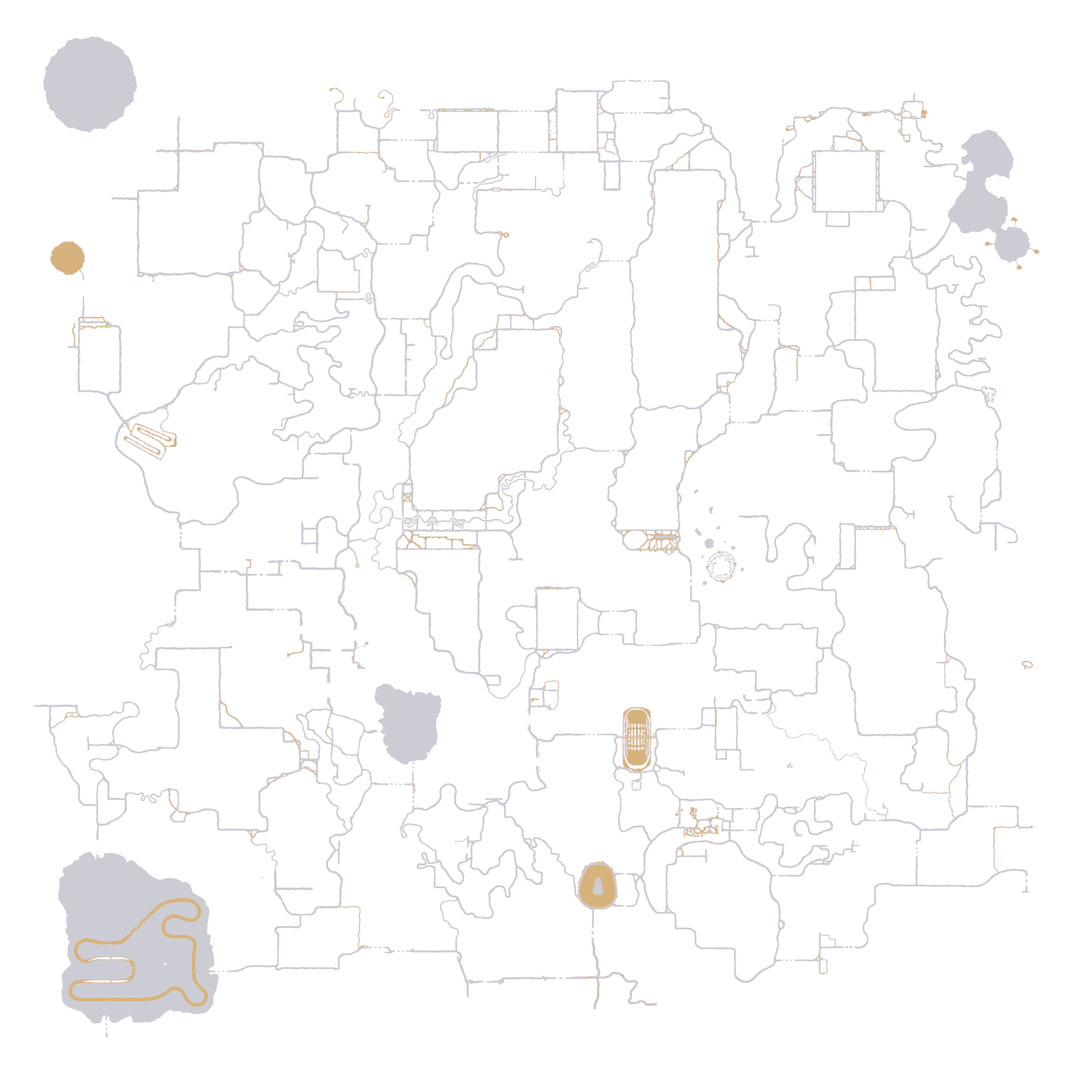
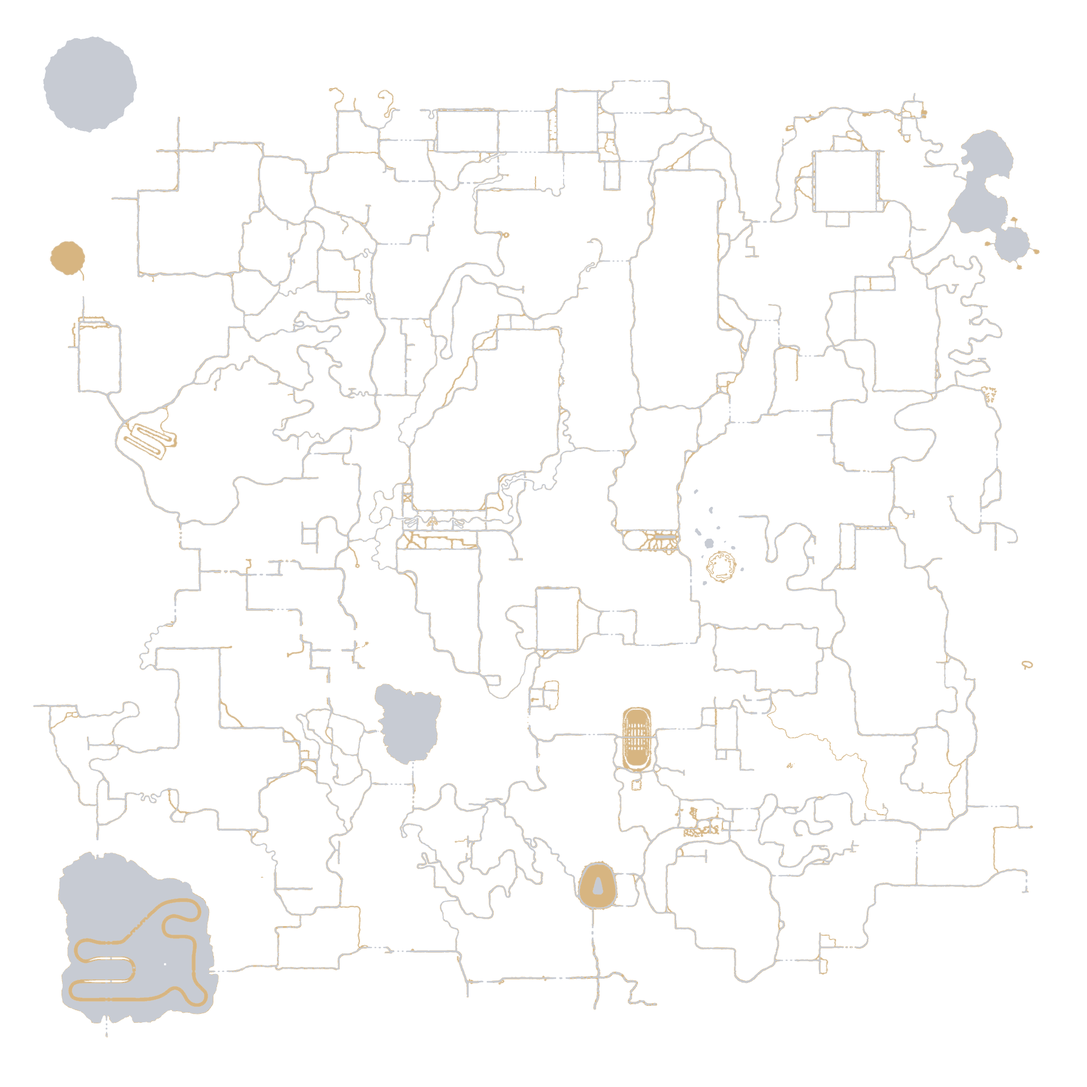
Fix the missing document head, the road colour bleed and the pan cost
Four real defects, no new features.

The page had no doctype, charset or viewport. That put it in quirks
mode, and the raw UTF-8 in the template rendered as mojibake: every em
dash in the roster headings came out as three stray Latin-1 characters.
It also meant the 900 px mobile breakpoint never engaged on a phone,
since without a viewport meta the page lays out at 980 px and scales
down. Now standards mode, UTF-8 and width=device-width.

The roads overlay dilated the composed RGBA, so MaxFilter took the
maximum of each channel independently: wherever an asphalt edge met a
gravel edge it produced (214, 201, 210), a lilac that is neither road
colour. Each class is grown on its own now, before a colour is chosen,
and the only colours left in the output are the two road colours and
the genuine blends the downscale makes.

Panning rewrote --inv every frame. It cascades to every pin, footprint
and spawn marker, so each pan frame restyled ~130 elements to the value
they already had. Only written when the zoom actually changes.

Imported maps are WebP rather than JPEG, and are never scaled up. At
matched fidelity WebP is strictly better here - measured against the
source, q82 beats the old JPEG q88 on PSNR while being smaller - and
the 2000 px exports were being enlarged to 2048, which invented no
detail and cost bytes. The base layers drop from 10.34 MB to 7.82 MB,
24% less to serve, and registration improves to 0 px on all seven now
that nothing is resampled up.
[…]

diff --git a/docs/ADDED_POIS_map.html b/docs/ADDED_POIS_map.html
@@ -1,3 +1,7 @@
+<!doctype html>
+<html lang="en">
+<meta charset="utf-8">
+<meta name="viewport" content="width=device-width,initial-scale=1">
 <title>Astoria 8K &#8212; Added POIs</title>
 <style>
 :root{
@@ -186,7 +190,7 @@ body{margin:0;background:var(--ground);color:var(--ink);font-family:var(--body);
 const POIS=[{"name":"7Days_Swinger_Pad_by_MPLogue","mod":"AAA","x":-1759,"y":57,"z":-3192,"w":42,"d":42,"n":1,"where":"town","occ":"remnant_house_09","relief":0.0},{"name":"Ayesoar_Mansion_by_MPLogue","mod":"AAA","x":1160,"y":36,"z":-3184,"w":60,"d":60,"n":2,"where":"wild","occ":"","relief":0.75},{"name":"Baslica_Cistern_by_MPLogue","mod":"AAA","x":3372,"y":30,"z":2368,"w":60,"d":60,"n":3,"where":"wild","occ":"","relief":0.05},{"name":"BoulderHouse01_by_MPLogue","mod":"AAA","x":-1088,"y":30,"z":-1252,"w":60,"d":60,"n":4,"where":"wild","occ":"","relief":1.32},{"name":"Cat_Statue_by_MPLogue","mod":"AAA","x":-1436,"y":57,"z":-420,"w":13,"d":22,"n":5,"where":"wild","occ":"","relief":1.06},{"name":"CrystalCave01_by_MPLogue","mod":"AAA","x":-236,"y":150,"z":-236,"w":42,"d":42,"n":6,"where":"wild","occ":"","relief":0.0},{"name":"DiaLogueTowers_by_MPLogue","mod":"AAA","x":2849,"y":36,"z":-2962,"w":60,"d":60,"n":7,"where":"town","occ":"remnant_school_01","relief":0.0},{"name":"Dirigible_by_MPLogue","mod":"AAA","x":3348,"y":37,"z":-2544,"w":60,"d":59,"n":8,"where":"wild","occ":"","relief":3.42},{"name":"FacePalmInc_by_MPLogue","mod":"AAA","x":-945,"y":149,"z":637,"w":42,"d":42,"n":9,"where":"town","occ":"remnant_downtown_strip_07","relief":0.0},{"name":"Flying_Wallendas__by_MPLogue","mod":"AAA","x":-948,"y":150,"z":-648,"w":142,"d":141,"n":10,"where":"wild","occ":"","relief":6.44},{"name":"MaunSell_Fort_by_MPLogue","mod":"AAA","x":-1112,"y":150,"z":480,"w":153,"d":148,"n":11,"where":"wild","occ":"","relief":2.67},{"name":"MazeSm_by_MPLogue","mod":"AAA","x":-2404,"y":150,"z":-1388,"w":107,"d":100,"n":12,"where":"wild","occ":"","relief":2.41},{"name":"MidCenturyModernHouse01_by_MPLogue","mod":"AAA","x":1324,"y":57,"z":-1496,"w":42,"d":42,"n":13,"where":"town","occ":"remnant_house_11","relief":0.0},{"name":"MidCenturyModernHouse02_by_MPLogue","mod":"AAA","x":-117,"y":149,"z":1560,"w":42,"d":42,"n":14,"where":"town","occ":"remnant_burnt_02","relief":0.0},{"name":"MidCenturyModernHouse04_by_MPLogue","mod":"AAA","x":-1052,"y":30,"z":-1552,"w":60,"d":60,"n":15,"where":"wild","occ":"","relief":1.47},{"name":"MikeAirB+B01_by_MPLogue","mod":"AAA","x":-3360,"y":36,"z":-3540,"w":60,"d":60,"n":16,"where":"wild","occ":"","relief":1.24},{"name":"Obelisk_2001_by_MPLogue","mod":"AAA","x":-580,"y":150,"z":-1888,"w":67,"d":50,"n":17,"where":"wild","occ":"","relief":1.83},{"name":"Petra_Indiana_Jones_by_MPLogue","mod":"AAA","x":-3448,"y":36,"z":-880,"w":213,"d":179,"n":18,"where":"wild","occ":"","relief":3.89},{"name":"Pubic_Libary_by_MPLogue","mod":"AAA","x":-2662,"y":36,"z":2249,"w":60,"d":60,"n":19,"where":"town","occ":"remnant_library_01","relief":0.0},{"name":"RadCave01_by_MPLogue","mod":"AAA","x":2284,"y":52,"z":-596,"w":42,"d":42,"n":20,"where":"wild","occ":"","relief":1.34},{"name":"Rainbow_Pit_by_MPLogue","mod":"AAA","x":-1490,"y":57,"z":1906,"w":42,"d":42,"n":21,"where":"town","occ":"lot_country_01","relief":0.01},{"name":"RaveCave02_by_MPLogue","mod":"AAA","x":-1528,"y":57,"z":2064,"w":60,"d":60,"n":22,"where":"wild","occ":"","relief":1.3},{"name":"Rose_Abby_byMPLogue","mod":"AAA","x":-3532,"y":36,"z":-2604,"w":130,"d":158,"n":23,"where":"wild","occ":"","relief":6.67},{"name":"Rubble_wall_01_by_MPLogue","mod":"AAA","x":-3392,"y":36,"z":-3240,"w":58,"d":42,"n":24,"where":"wild","occ":"","relief":0.45},{"name":"Skeletor_Hermitage_by_MPLogue","mod":"AAA","x":128,"y":78,"z":-2900,"w":48,"d":75,"n":25,"where":"wild","occ":"","relief":1.59},{"name":"Skywalker_Homestead_by_MPLogue","mod":"AAA","x":-2220,"y":150,"z":-2236,"w":80,"d":73,"n":26,"where":"wild","occ":"","relief":2.5},{"name":"SnekCave_by_MPLogue","mod":"AAA","x":2588,"y":37,"z":-2588,"w":62,"d":50,"n":27,"where":"wild","occ":"","relief":3.0},{"name":"Step_Well_by_MPLogue","mod":"AAA","x":-2816,"y":150,"z":-2000,"w":60,"d":60,"n":28,"where":"wild","occ":"","relief":2.2},{"name":"Svalbard_Seed_Vault_by_MPLogue","mod":"AAA","x":-3052,"y":36,"z":-3092,"w":135,"d":158,"n":29,"where":"wild","occ":"","relief":8.69},{"name":"Alamo_Restaurant_Voltralux","mod":"AAB","x":-2443,"y":149,"z":-1845,"w":42,"d":42,"n":30,"where":"town","occ":"remnant_waste_17","relief":0.0},{"name":"Boxing_Gym_Voltralux","mod":"AAB","x":-3552,"y":7,"z":3414,"w":42,"d":42,"n":31,"where":"town","occ":"lot_vacant_05","relief":0.0},{"name":"Casino_Voltralux","mod":"AAB","x":-3524,"y":36,"z":-2940,"w":150,"d":150,"n":32,"where":"wild","occ":"","relief":6.0},{"name":"Central_Station_Voltralux","mod":"AAB","x":-2896,"y":149,"z":-896,"w":100,"d":100,"n":33,"where":"town","occ":"remnant_commercial_large_02","relief":0.01},{"name":"Community_Centre_Voltralux","mod":"AAB","x":-2528,"y":53,"z":820,"w":42,"d":42,"n":34,"where":"wild","occ":"","relief":2.21},{"name":"Crash_Site_Voltralux","mod":"AAB","x":1464,"y":57,"z":1476,"w":42,"d":42,"n":35,"where":"wild","occ":"","relief":2.07},{"name":"Crystal_Creek_Voltralux","mod":"AAB","x":-3104,"y":36,"z":-2704,"w":150,"d":150,"n":36,"where":"wild","occ":"","relief":6.0},{"name":"Eternal_Rests_Voltralux","mod":"AAB","x":1099,"y":57,"z":1463,"w":42,"d":42,"n":37,"where":"town","occ":"remnant_waste_04","relief":0.0},{"name":"Fastfood_Roosters_Voltralux","mod":"AAB","x":361,"y":36,"z":3360,"w":42,"d":42,"n":38,"where":"town","occ":"remnant_waste_03","relief":0.02},{"name":"Gun_Shop_Kendo_Voltralux","mod":"AAB","x":-1573,"y":57,"z":2163,"w":25,"d":25,"n":39,"where":"town","occ":"lot_industrial_03","relief":0.01},{"name":"Hallucigen_Inc_Voltralux","mod":"AAB","x":-3388,"y":36,"z":1179,"w":42,"d":42,"n":40,"where":"town","occ":"remnant_downtown_strip_01","relief":0.0},{"name":"House_Atomic_01_Voltralux","mod":"AAB","x":-3323,"y":36,"z":-9,"w":42,"d":42,"n":41,"where":"town","occ":"lot_vacant_05","relief":0.0},{"name":"KickFlipz_Skate_Store_Voltralux","mod":"AAB","x":3474,"y":36,"z":-2181,"w":25,"d":25,"n":42,"where":"town","occ":"remnant_downtown_filler_01","relief":0.0},{"name":"Liberty_Apartments_Voltralux","mod":"AAB","x":2589,"y":58,"z":-341,"w":60,"d":60,"n":43,"where":"town","occ":"remnant_skyscraper_03","relief":0.0},{"name":"Little_Italy_Voltralux","mod":"AAB","x":2588,"y":36,"z":1649,"w":60,"d":60,"n":44,"where":"town","occ":"remnant_library_02","relief":0.0},{"name":"Mafia_Museum_Voltralux","mod":"AAB","x":3019,"y":57,"z":-1220,"w":42,"d":42,"n":45,"where":"town","occ":"remnant_downtown_strip_17","relief":0.0},{"name":"Oasis_Apartments_Voltralux","mod":"AAB","x":1837,"y":36,"z":-864,"w":42,"d":42,"n":46,"where":"town","occ":"remnant_downtown_strip_06","relief":0.0},{"name":"Quick_Cabs_Voltralux","mod":"AAB","x":1836,"y":36,"z":1313,"w":42,"d":42,"n":47,"where":"town","occ":"remnant_downtown_strip_04","relief":0.0},{"name":"RPD_Voltralux","mod":"AAB","x":704,"y":36,"z":704,"w":100,"d":100,"n":48,"where":"town","occ":"remnant_commercial_large_02","relief":0.03},{"name":"Roadside_Haunt_Voltralux","mod":"AAB","x":1788,"y":36,"z":-1740,"w":60,"d":60,"n":49,"where":"wild","occ":"","relief":2.43},{"name":"Umbrella_Corp_VoltraLux","mod":"AAB","x":904,"y":57,"z":2704,"w":100,"d":100,"n":50,"where":"town","occ":"remnant_commercial_large_02","relief":0.03},{"name":"Video_Rental_Voltralux","mod":"AAB","x":1128,"y":36,"z":979,"w":25,"d":25,"n":51,"where":"town","occ":"remnant_downtown_filler_09","relief":0.05},{"name":"WindFarm_Voltralux","mod":"AAB","x":-1780,"y":150,"z":-1812,"w":100,"d":100,"n":52,"where":"wild","occ":"","relief":4.36},{"name":"Zap_Arcade_Voltralux","mod":"AAB","x":-332,"y":36,"z":-3200,"w":25,"d":26,"n":53,"where":"wild","occ":"","relief":0.11},{"name":"Ambulance_Station_Zeebark","mod":"AAC","x":-154,"y":149,"z":662,"w":42,"d":42,"n":54,"where":"town","occ":"remnant_waste_01","relief":0.0},{"name":"Bandit_Station_Zeebark","mod":"AAC","x":-1404,"y":38,"z":336,"w":42,"d":42,"n":55,"where":"wild","occ":"","relief":3.36},{"name":"Bar_Bistro_Zeebark","mod":"AAC","x":960,"y":57,"z":2161,"w":42,"d":42,"n":56,"where":"town","occ":"remnant_burnt_08","relief":0.0},{"name":"BikeB&B_Zeebark","mod":"AAC","x":2328,"y":36,"z":2048,"w":25,"d":25,"n":57,"where":"wild","occ":"","relief":0.49},{"name":"Camera_Shop_Zeebark","mod":"AAC","x":-3221,"y":36,"z":1578,"w":25,"d":25,"n":58,"where":"town","occ":"rubble_downtown_filler_05","relief":0.02},{"name":"Camping_Store_Zeebark","mod":"AAC","x":1276,"y":57,"z":2452,"w":25,"d":25,"n":59,"where":"town","occ":"rubble_downtown_filler_21","relief":0.0},{"name":"Cemetery_Zeebark","mod":"AAC","x":-1640,"y":57,"z":-2811,"w":42,"d":42,"n":60,"where":"town","occ":"lot_country_02","relief":0.0},{"name":"Charity_Bar_Duplex_Zeebark","mod":"AAC","x":-563,"y":149,"z":829,"w":25,"d":25,"n":61,"where":"town","occ":"remnant_downtown_filler_12","relief":0.0},{"name":"Chippys_Chippy_Zeebark","mod":"AAC","x":-1834,"y":57,"z":-2961,"w":25,"d":25,"n":62,"where":"town","occ":"lot_vacant_03","relief":0.0},{"name":"Church_Zeebark","mod":"AAC","x":-3345,"y":36,"z":-222,"w":25,"d":25,"n":63,"where":"town","occ":"lot_industrial_17","relief":0.0},{"name":"Cinema_Zeebark","mod":"AAC","x":-1656,"y":57,"z":-3034,"w":25,"d":25,"n":64,"where":"town","occ":"lot_industrial_20","relief":0.0},{"name":"Cocktail_Bar_Zeebark","mod":"AAC","x":2522,"y":57,"z":79,"w":25,"d":25,"n":65,"where":"town","occ":"remnant_downtown_filler_08","relief":0.0},{"name":"Coffee_Shop_Zeebark","mod":"AAC","x":-2171,"y":149,"z":-2145,"w":25,"d":25,"n":66,"where":"town","occ":"rubble_downtown_filler_24","relief":0.05},{"name":"Community_Center_Zeebark","mod":"AAC","x":-3089,"y":36,"z":-261,"w":42,"d":42,"n":67,"where":"town","occ":"remnant_business_03","relief":0.0},{"name":"Community_Hall_Zeebark","mod":"AAC","x":-138,"y":101,"z":2442,"w":42,"d":42,"n":68,"where":"town","occ":"remnant_house_12","relief":0.0},{"name":"Computer_Store_Zeebark","mod":"AAC","x":2204,"y":57,"z":-222,"w":25,"d":25,"n":69,"where":"town","occ":"remnant_downtown_filler_29","relief":0.02},{"name":"Cool_Shooz_Duplex_Zeebark","mod":"AAC","x":1237,"y":57,"z":1879,"w":25,"d":25,"n":70,"where":"town","occ":"rubble_downtown_filler_25","relief":0.0},{"name":"Crack_a_Book_Zeebark","mod":"AAC","x":-2428,"y":36,"z":2761,"w":42,"d":42,"n":71,"where":"town","occ":"remnant_downtown_strip_06","relief":0.0},{"name":"Damoclez_Zeebark","mod":"AAC","x":1888,"y":36,"z":2652,"w":100,"d":100,"n":72,"where":"wild","occ":"","relief":4.73},{"name":"Fanz_Duplex_Zeebark","mod":"AAC","x":2505,"y":36,"z":-2797,"w":25,"d":25,"n":73,"where":"town","occ":"remnant_downtown_filler_07","relief":0.0},{"name":"Garden_Centre_Zeebark","mod":"AAC","x":937,"y":36,"z":212,"w":42,"d":42,"n":74,"where":"town","occ":"remnant_business_04","relief":0.0},{"name":"Ice_Skating_Rink_Zeebark","mod":"AAC","x":-44,"y":57,"z":-496,"w":60,"d":60,"n":75,"where":"town","occ":"remnant_waste_18","relief":0.0},{"name":"Jail_Break_Pizza_Zeebark","mod":"AAC","x":1429,"y":57,"z":1305,"w":25,"d":25,"n":76,"where":"town","occ":"remnant_downtown_filler_11","relief":0.02},{"name":"Le_Cube_Zeebark","mod":"AAC","x":-756,"y":150,"z":1012,"w":100,"d":100,"n":77,"where":"wild","occ":"","relief":4.96},{"name":"Mile_End_Prison_Zeebark","mod":"AAC","x":1454,"y":78,"z":-2957,"w":60,"d":60,"n":78,"where":"town","occ":"remnant_business_02","relief":0.0},{"name":"Mirror_Shop_Zeebark","mod":"AAC","x":-2322,"y":36,"z":2420,"w":25,"d":25,"n":79,"where":"town","occ":"remnant_downtown_filler_12","relief":0.0},{"name":"Modern_House_Zeebark","mod":"AAC","x":-724,"y":150,"z":-940,"w":60,"d":60,"n":80,"where":"wild","occ":"","relief":2.18},{"name":"Old_Church_Mansion_Zeebark","mod":"AAC","x":2344,"y":35,"z":2376,"w":60,"d":60,"n":81,"where":"wild","occ":"","relief":3.28},{"name":"Pet_Salon_Zeebark","mod":"AAC","x":856,"y":57,"z":1711,"w":25,"d":25,"n":82,"where":"town","occ":"remnant_downtown_filler_01","relief":0.0},{"name":"Phabbers_Cafe_Zeebark","mod":"AAC","x":2656,"y":57,"z":-795,"w":42,"d":42,"n":83,"where":"town","occ":"remnant_commercial_strip_04","relief":0.0},{"name":"Pop_n_Pills_Zeebark","mod":"AAC","x":-2745,"y":149,"z":-1996,"w":25,"d":25,"n":84,"where":"town","occ":"remnant_downtown_filler_14","relief":0.02},{"name":"Quad_Zeebark","mod":"AAC","x":-2257,"y":149,"z":-1546,"w":25,"d":25,"n":85,"where":"town","occ":"rubble_downtown_filler_25","relief":0.0},{"name":"Reptile_Store_Zeebark","mod":"AAC","x":-778,"y":149,"z":256,"w":25,"d":25,"n":86,"where":"town","occ":"remnant_downtown_filler_09","relief":0.0},{"name":"Retro_Cafe_Zeebark","mod":"AAC","x":2761,"y":36,"z":-2623,"w":25,"d":25,"n":87,"where":"town","occ":"remnant_downtown_filler_18","relief":0.0},{"name":"Retro_Diner_Zeebark","mod":"AAC","x":-2492,"y":149,"z":-1309,"w":42,"d":42,"n":88,"where":"town","occ":"remnant_house_11","relief":0.0},{"name":"Shotgun_Messiah_Zeebark","mod":"AAC","x":-1931,"y":149,"z":-1670,"w":42,"d":42,"n":89,"where":"town","occ":"remnant_downtown_strip_12","relief":0.0},{"name":"Stuff_N_Books_Zeebark","mod":"AAC","x":8,"y":149,"z":1104,"w":42,"d":42,"n":90,"where":"town","occ":"remnant_house_06","relief":0.0},{"name":"Temple_of_the_Warriors_Zeebark","mod":"AAC","x":-748,"y":101,"z":1628,"w":100,"d":100,"n":91,"where":"wild","occ":"","relief":4.94},{"name":"The_Holly_Residence_Zeebark","mod":"AAC","x":-2658,"y":36,"z":-296,"w":42,"d":42,"n":92,"where":"town","occ":"remnant_house_12","relief":0.0},{"name":"Time_Out Diner_Zeebark","mod":"AAC","x":-3236,"y":36,"z":-153,"w":25,"d":25,"n":93,"where":"town","occ":"lot_industrial_15","relief":0.0},{"name":"UR_Ziggorat_Zeebark","mod":"AAC","x":2584,"y":35,"z":2800,"w":60,"d":60,"n":94,"where":"wild","occ":"","relief":3.3},{"name":"Wagon_Trail_Cafe_Zeebark","mod":"AAC","x":3679,"y":36,"z":-2411,"w":25,"d":25,"n":95,"where":"town","occ":"lot_downtown_filler_01","relief":0.0},{"name":"Yard_Sale_Zeebark","mod":"AAC","x":3208,"y":36,"z":-3027,"w":42,"d":42,"n":96,"where":"town","occ":"remnant_house_11","relief":0.0},{"name":"ZBites_Zeebark","mod":"AAC","x":2361,"y":36,"z":2909,"w":25,"d":25,"n":97,"where":"town","occ":"lot_industrial_11","relief":0.0},{"name":"ZTec_Labs_Zeebark","mod":"AAC","x":844,"y":78,"z":-2596,"w":100,"d":100,"n":98,"where":"wild","occ":"","relief":6.94},{"name":"Zarnak_Temple_Zeebark","mod":"AAC","x":672,"y":57,"z":-1352,"w":60,"d":60,"n":99,"where":"wild","occ":"","relief":0.6},{"name":"Zden_Nightclub_Zeebark","mod":"AAC","x":-494,"y":149,"z":405,"w":42,"d":42,"n":100,"where":"town","occ":"remnant_carwash_01","relief":0.0},{"name":"Zee_Antiques_Zeebark","mod":"AAC","x":-795,"y":36,"z":2954,"w":25,"d":25,"n":101,"where":"town","occ":"rubble_downtown_filler_12","relief":0.0},{"name":"Zee_Bliss_Zeebark","mod":"AAC","x":-2594,"y":149,"z":-1574,"w":25,"d":25,"n":102,"where":"town","occ":"rubble_downtown_filler_25","relief":0.0},{"name":"Zee_Hardware_Zeebark","mod":"AAC","x":1005,"y":78,"z":-2663,"w":42,"d":42,"n":103,"where":"town","occ":"remnant_downtown_strip_01","relief":0.0},{"name":"Zee_Plantz_Zeebark","mod":"AAC","x":-3496,"y":36,"z":1519,"w":25,"d":25,"n":104,"where":"town","occ":"rubble_downtown_filler_22","relief":0.0},{"name":"Zmart_Zeebark","mod":"AAC","x":-1689,"y":36,"z":-241,"w":25,"d":25,"n":105,"where":"town","occ":"lot_industrial_09","relief":0.0},{"name":"WinterDawn_Fortress","mod":"AAD","x":-2132,"y":150,"z":-1812,"w":120,"d":105,"n":106,"where":"wild","occ":"","relief":3.34},{"name":"church_01_svarii","mod":"AAF","x":-601,"y":36,"z":3188,"w":60,"d":60,"n":107,"where":"town","occ":"remnant_hospital_01","relief":0.0},{"name":"farnsworth_residence_svarii","mod":"AAF","x":2904,"y":36,"z":1808,"w":42,"d":42,"n":108,"where":"town","occ":"remnant_house_11","relief":0.0},{"name":"graveyard_01_svarii","mod":"AAF","x":-2968,"y":36,"z":-116,"w":25,"d":25,"n":109,"where":"town","occ":"lot_industrial_14","relief":0.0},{"name":"house_burnt_01_exd_svarii","mod":"AAF","x":-3179,"y":36,"z":79,"w":25,"d":25,"n":110,"where":"town","occ":"lot_vacant_08","relief":0.0},{"name":"house_old_cottage_oneHalf_svarii","mod":"AAF","x":-781,"y":149,"z":-736,"w":25,"d":25,"n":111,"where":"town","occ":"lot_industrial_07","relief":0.0},{"name":"house_shanty_01_svarii","mod":"AAF","x":1440,"y":36,"z":280,"w":25,"d":25,"n":112,"where":"wild","occ":"","relief":1.38},{"name":"park_azaroth_svarii","mod":"AAF","x":2355,"y":57,"z":-496,"w":25,"d":25,"n":113,"where":"town","occ":"rubble_downtown_filler_03","relief":0.0},{"name":"park_residential_01_exd_svarii","mod":"AAF","x":-2893,"y":36,"z":2406,"w":25,"d":25,"n":114,"where":"town","occ":"rubble_downtown_filler_02","relief":0.0},{"name":"caleseche","mod":"AAG","x":760,"y":57,"z":2148,"w":82,"d":91,"n":115,"where":"wild","occ":"","relief":1.23},{"name":"modern_house_shadow","mod":"AAH","x":-876,"y":30,"z":-1300,"w":60,"d":60,"n":116,"where":"wild","occ":"","relief":3.49},{"name":"Cogmart","mod":"AAI","x":-3284,"y":36,"z":-2968,"w":100,"d":100,"n":117,"where":"wild","occ":"","relief":2.22},{"name":"Cogs_Bloodmoon_Arena_Forest","mod":"AAI","x":-372,"y":150,"z":292,"w":60,"d":60,"n":118,"where":"wild","occ":"","relief":2.4},{"name":"Cogs_Burnt_Forest_Bloodmoon_Arena","mod":"AAI","x":-1988,"y":150,"z":-1484,"w":60,"d":60,"n":119,"where":"wild","occ":"","relief":1.78},{"name":"Cogs_Desert_Bloodmoon_Arena","mod":"AAI","x":-2764,"y":38,"z":-2776,"w":60,"d":60,"n":120,"where":"wild","occ":"","relief":3.39},{"name":"Cogs_Snow_Bloodmoon_Arena","mod":"AAI","x":936,"y":78,"z":-2832,"w":60,"d":60,"n":121,"where":"wild","occ":"","relief":3.11},{"name":"Makin_Taters","mod":"AAI","x":3216,"y":30,"z":2656,"w":101,"d":100,"n":122,"where":"wild","occ":"","relief":1.64}];
 const PACKS={"AAA":{"n":"MPLogue Prefabs","c":"#ff5656"},"AAB":{"n":"Voltralux's POI Pack","c":"#4eb0ff"},"AAC":{"n":"Zeebark POI Pack","c":"#ffce36"},"AAD":{"n":"WinterDawn Fortress","c":"#b27cff"},"AAF":{"n":"Svarii's POI Package","c":"#3ce696"},"AAG":{"n":"Caleseche","c":"#ff922c"},"AAH":{"n":"ShadowModernHouse","c":"#ff74d6"},"AAI":{"n":"Cog's POIs","c":"#8cf056"}};
 const SPAWNS=[{"x":1310,"z":1171,"y":57,"n":1,"biome":"desert","near":"Jail_Break_Pizza_Zeebark","dist":196},{"x":2235,"z":149,"y":57,"n":2,"biome":"pine forest","near":"Cocktail_Bar_Zeebark","dist":304},{"x":-2740,"z":-30,"y":36,"n":3,"biome":"desert","near":"graveyard_01_svarii","dist":227},{"x":-2209,"z":-125,"y":28,"n":4,"biome":"pine forest","near":"The_Holly_Residence_Zeebark","dist":453},{"x":2227,"z":-169,"y":57,"n":5,"biome":"pine forest","near":"Computer_Store_Zeebark","dist":41},{"x":2869,"z":-182,"y":57,"n":6,"biome":"pine forest","near":"Liberty_Apartments_Voltralux","dist":281},{"x":-2445,"z":-219,"y":36,"n":7,"biome":"desert","near":"The_Holly_Residence_Zeebark","dist":200},{"x":-2587,"z":-353,"y":36,"n":8,"biome":"snow","near":"The_Holly_Residence_Zeebark","dist":92},{"x":3136,"z":-1266,"y":57,"n":9,"biome":"wasteland","near":"Mafia_Museum_Voltralux","dist":117},{"x":3638,"z":-2602,"y":36,"n":10,"biome":"burnt forest","near":"Wagon_Trail_Cafe_Zeebark","dist":210}];
-const LAYERS=[{"id":"u1","label":"Astoria World Map","kind":"base","file":"maps/user-01-astoria-world-map.jpg","note":"your render \u00b7 Astoria World Map.webp","def":true,"kb":1544},{"id":"u2","label":"Battle Arenas","kind":"base","file":"maps/user-02-battle-arenas.jpg","note":"your render \u00b7 Battle Arenas.webp","kb":1538},{"id":"u3","label":"Biome Layout","kind":"base","file":"maps/user-03-biome-layout.jpg","note":"your render \u00b7 Biome Layout.webp","kb":941},{"id":"u4","label":"Blood Moon Forts","kind":"base","file":"maps/user-04-blood-moon-forts.jpg","note":"your render \u00b7 Blood Moon Forts.webp","kb":1517},{"id":"u5","label":"Driving Features","kind":"base","file":"maps/user-05-driving-features.jpg","note":"your render \u00b7 Driving Features.webp","kb":1543},{"id":"u6","label":"Road System","kind":"base","file":"maps/user-06-road-system.jpg","note":"your render \u00b7 Road System.webp","kb":1557},{"id":"u7","label":"World Areas","kind":"base","file":"maps/user-07-world-areas.jpg","note":"your render \u00b7 World Areas.webp","kb":1456},{"id":"biomes-b","label":"Biomes","kind":"base","file":"maps/biomes.png","note":"biomes.png, flat colour","kb":110},{"id":"regions-b","label":"Terrain zones","kind":"base","file":"maps/regions.png","note":"regions.png, the world's terrain banding","kb":81},{"id":"roads","label":"Roads","kind":"overlay","file":"maps/roads.png","op":100,"on":true,"note":"splat3.png \u00b7 grey asphalt, tan gravel","kb":205},{"id":"biomes-o","label":"Biomes","kind":"overlay","file":"maps/biomes.png","op":35,"on":false,"note":"tint the base with the biome colours","kb":110},{"id":"regions-o","label":"Terrain zones","kind":"overlay","file":"maps/regions.png","op":40,"on":false,"note":"tint the base with the terrain banding","kb":81}];
+const LAYERS=[{"id":"u1","label":"Astoria World Map","kind":"base","file":"maps/user-01-astoria-world-map.webp","note":"your render \u00b7 Astoria World Map.webp","def":true,"kb":1208},{"id":"u2","label":"Battle Arenas","kind":"base","file":"maps/user-02-battle-arenas.webp","note":"your render \u00b7 Battle Arenas.webp","kb":1183},{"id":"u3","label":"Biome Layout","kind":"base","file":"maps/user-03-biome-layout.webp","note":"your render \u00b7 Biome Layout.webp","kb":553},{"id":"u4","label":"Blood Moon Forts","kind":"base","file":"maps/user-04-blood-moon-forts.webp","note":"your render \u00b7 Blood Moon Forts.webp","kb":1176},{"id":"u5","label":"Driving Features","kind":"base","file":"maps/user-05-driving-features.webp","note":"your render \u00b7 Driving Features.webp","kb":1194},{"id":"u6","label":"Road System","kind":"base","file":"maps/user-06-road-system.webp","note":"your render \u00b7 Road System.webp","kb":1212},{"id":"u7","label":"World Areas","kind":"base","file":"maps/user-07-world-areas.webp","note":"your render \u00b7 World Areas.webp","kb":1112},{"id":"biomes-b","label":"Biomes","kind":"base","file":"maps/biomes.png","note":"biomes.png, flat colour","kb":110},{"id":"regions-b","label":"Terrain zones","kind":"base","file":"maps/regions.png","note":"regions.png, the world's terrain banding","kb":81},{"id":"roads","label":"Roads","kind":"overlay","file":"maps/roads.png","op":100,"on":true,"note":"splat3.png \u00b7 grey asphalt, tan gravel","kb":244},{"id":"biomes-o","label":"Biomes","kind":"overlay","file":"maps/biomes.png","op":35,"on":false,"note":"tint the base with the biome colours","kb":110},{"id":"regions-o","label":"Terrain zones","kind":"overlay","file":"maps/regions.png","op":40,"on":false,"note":"tint the base with the terrain banding","kb":81}];
 const BIOMES=[{"c":"#ffa800","n":"burnt forest","pct":36.7},{"c":"#ffe477","n":"desert","pct":21.2},{"c":"#004000","n":"pine forest","pct":20.4},{"c":"#ffffff","n":"snow","pct":15.3},{"c":"#ba00ff","n":"wasteland","pct":6.5}];
 
 const layer=document.getElementById('layer'),roster=document.getElementById('roster'),
@@ -496,10 +500,13 @@ function apply(){
 }
 
 /* ------------------------------------------------------------ pan / zoom -- */
-let s=1,tx=0,ty=0;
+let s=1,tx=0,ty=0,drawnS=0;
 function draw(){
   world.style.transform='translate('+tx+'px,'+ty+'px) scale('+s+')';
-  layer.style.setProperty('--inv',1/s);            /* keep pins a constant screen size */
+  /* --inv keeps pins a constant screen size, but it cascades to every pin,
+     footprint and spawn marker - restyling ~130 elements. Panning does not
+     change the scale, so only write it when the zoom has actually moved. */
+  if(s!==drawnS){ layer.style.setProperty('--inv',1/s); drawnS=s; }
 }
 function fit(){s=1;tx=-world.offsetWidth/2;ty=-world.offsetHeight/2;draw();}
 function zoomAt(cx,cy,f){

diff --git a/tools/map_template.html b/tools/map_template.html
@@ -1,3 +1,7 @@
+<!doctype html>
+<html lang="en">
+<meta charset="utf-8">
+<meta name="viewport" content="width=device-width,initial-scale=1">
 <title>Astoria 8K &#8212; Added POIs</title>
 <style>
 :root{
@@ -496,10 +500,13 @@ function apply(){
 }
 
 /* ------------------------------------------------------------ pan / zoom -- */
-let s=1,tx=0,ty=0;
+let s=1,tx=0,ty=0,drawnS=0;
 function draw(){
   world.style.transform='translate('+tx+'px,'+ty+'px) scale('+s+')';
-  layer.style.setProperty('--inv',1/s);            /* keep pins a constant screen size */
+  /* --inv keeps pins a constant screen size, but it cascades to every pin,
+     footprint and spawn marker - restyling ~130 elements. Panning does not
+     change the scale, so only write it when the zoom has actually moved. */
+  if(s!==drawnS){ layer.style.setProperty('--inv',1/s); drawnS=s; }
 }
 function fit(){s=1;tx=-world.offsetWidth/2;ty=-world.offsetHeight/2;draw();}
 function zoomAt(cx,cy,f){

diff --git a/tools/mapgen.py b/tools/mapgen.py
@@ -28,6 +28,10 @@ import maplayers
 
 Image.MAX_IMAGE_PIXELS = None
 
+# Windows has no .webp in its registry, so guess_type() returns None there and
+# --inline would label the payload image/png. Register it rather than rely on it.
+mimetypes.add_type("image/webp", ".webp")
+
 HERE = os.path.dirname(os.path.abspath(__file__))
 ROOT = os.path.dirname(HERE)
 WORLD = os.path.join(ROOT, "GeneratedWorlds", "Astoria 8K")
@@ -52,7 +56,8 @@ def slug(s):
 
 
 def import_user_maps(maps_dir, out, size, quality):
-    """Copy the user's own renders in as base layers, downscaled to `size`."""
+    """Copy the user's own renders in as base layers, as WebP no larger than
+    `size` - a render already smaller than that is kept at its own resolution."""
     files = sorted(
         (f for f in os.listdir(maps_dir) if f.lower().endswith(IMG_EXT)),
         key=natural,
@@ -71,9 +76,14 @@ def import_user_maps(maps_dir, out, size, quality):
                 "square and will not line up with the pins" % (f, im.width, im.height),
                 file=sys.stderr,
             )
-        im = im.convert("RGB").resize((size, size), Image.LANCZOS)
-        name = "user-%02d-%s.jpg" % (i + 1, slug(os.path.splitext(f)[0])[:40])
-        im.save(os.path.join(out, name), quality=quality, optimize=True, progressive=True)
+        # never scale up: enlarging a 2000 px export to 2048 invents no detail,
+        # it just costs bytes and softens what is there
+        n = min(size, max(im.size))
+        im = im.convert("RGB")
+        if im.size != (n, n):
+            im = im.resize((n, n), Image.LANCZOS)
+        name = "user-%02d-%s.webp" % (i + 1, slug(os.path.splitext(f)[0])[:40])
+        im.save(os.path.join(out, name), quality=quality, method=6)
         layers.append(
             {
                 "id": "u%d" % (i + 1),
@@ -188,7 +198,7 @@ def main():
     ap = argparse.ArgumentParser(description=__doc__, formatter_class=argparse.RawDescriptionHelpFormatter)
     ap.add_argument("--maps", metavar="DIR", help="folder of your own full-world map renders")
     ap.add_argument("--size", type=int, default=2048, help="layer resolution, px (default 2048)")
-    ap.add_argument("--quality", type=int, default=88, help="JPEG quality for --maps imports")
+    ap.add_argument("--quality", type=int, default=82, help="WebP quality for --maps imports (default 82)")
     ap.add_argument(
         "--keep-render",
         action="store_true",

diff --git a/tools/maplayers.py b/tools/maplayers.py
@@ -65,7 +65,14 @@ def roads(world, out, size):
     network continuous once it is resized.
     """
     a = np.asarray(Image.open(os.path.join(world, "splat3.png")).convert("RGBA"))
-    asphalt, gravel = a[:, :, 0], a[:, :, 1]
+
+    # Grow each road class on its own, before a colour is chosen. Dilating the
+    # composed RGBA instead takes the maximum of every channel independently,
+    # so an asphalt edge meeting a gravel edge came out (214, 201, 210) - a
+    # lilac that is neither road colour.
+    grow = ImageFilter.MaxFilter(3)
+    asphalt = np.asarray(Image.fromarray(a[:, :, 0]).filter(grow))
+    gravel = np.asarray(Image.fromarray(a[:, :, 1]).filter(grow))
 
     rgba = np.zeros(asphalt.shape + (4,), np.uint8)
     rgba[:, :, 3] = np.maximum(asphalt, gravel)
@@ -73,8 +80,7 @@ def roads(world, out, size):
     for c in range(3):
         rgba[:, :, c] = np.where(is_asphalt, ASPHALT[c], GRAVEL[c])
 
-    im = Image.fromarray(rgba, "RGBA").filter(ImageFilter.MaxFilter(3))
-    im = im.resize((size, size), Image.LANCZOS)
+    im = Image.fromarray(rgba, "RGBA").resize((size, size), Image.LANCZOS)
     return _save_indexed(im, os.path.join(out, "roads.png"), 32)
 
 
